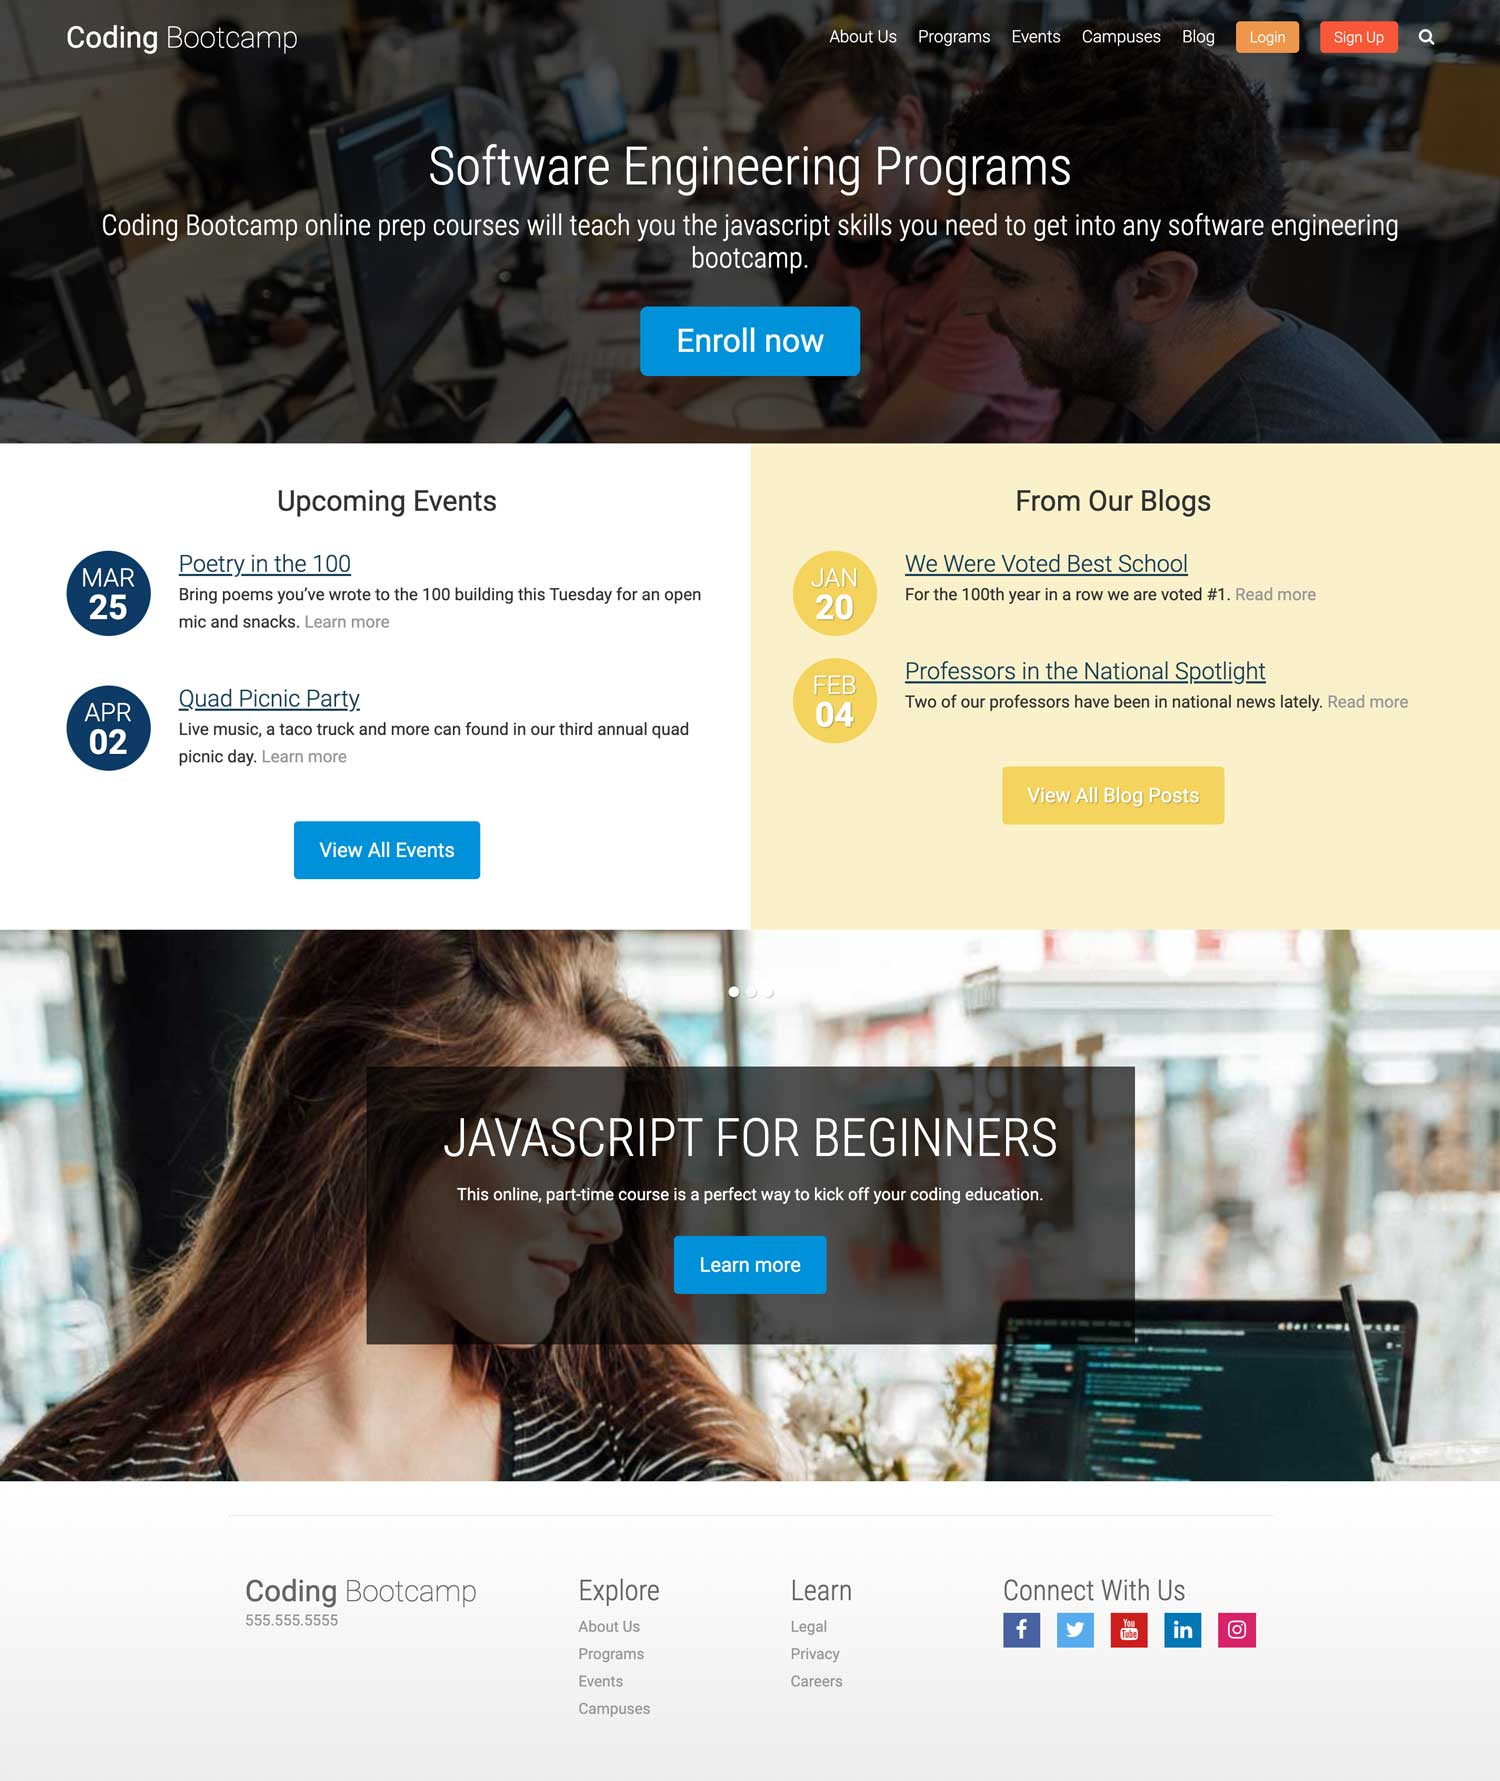
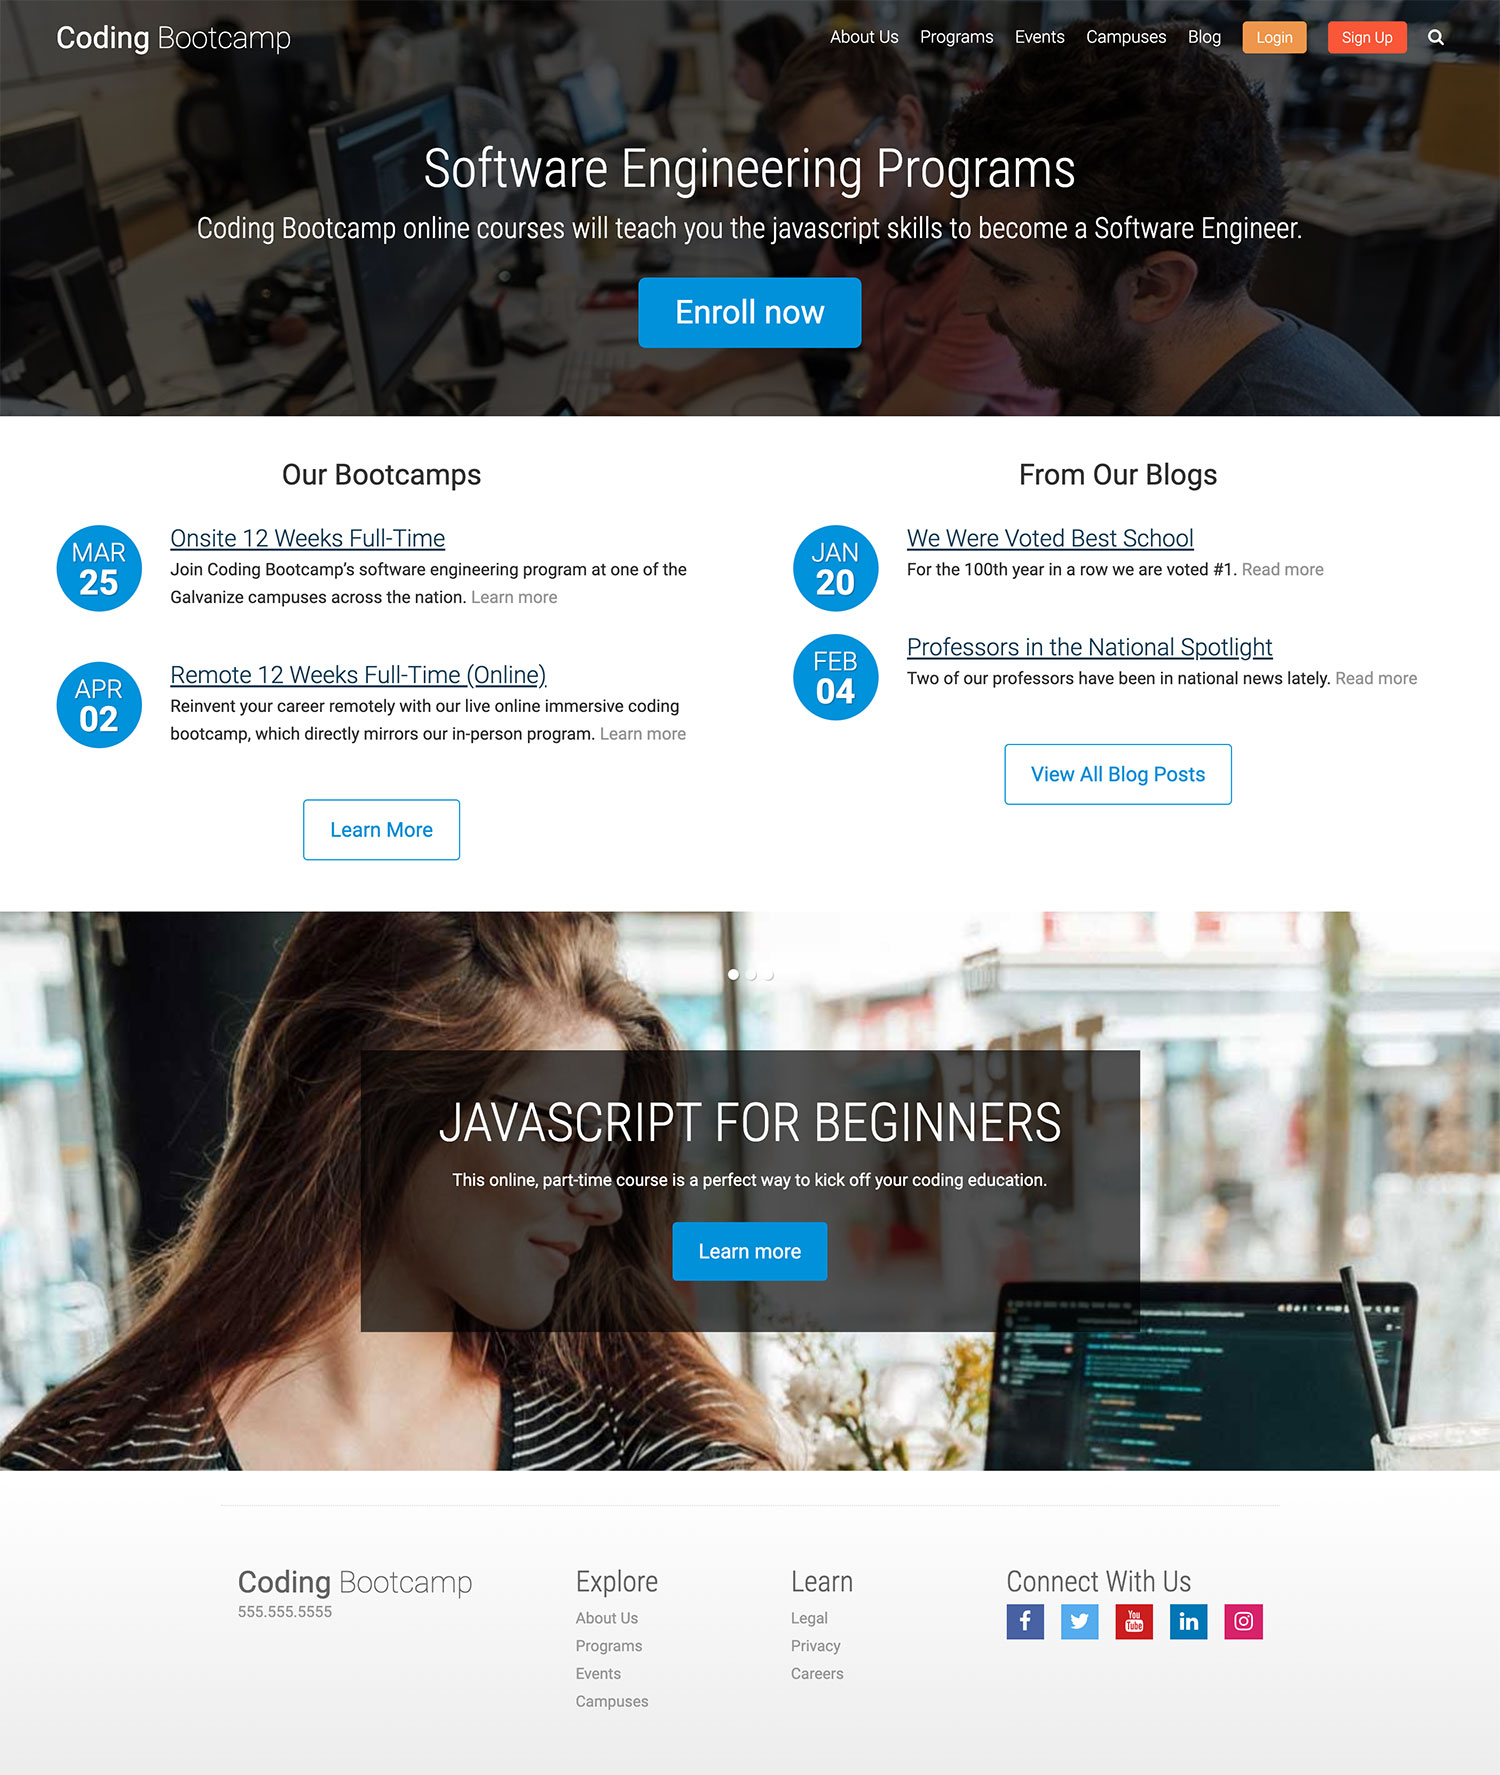
edit html content

diff --git a/index.php b/index.php
@@ -14,7 +14,7 @@
     <div class="full-width-split group">
       <div class="full-width-split__one">
         <div class="full-width-split__inner">
-          <h2 class="headline headline--small-plus t-center">Upcoming Events</h2>
+          <h2 class="headline headline--small-plus t-center">Our Bootcamps</h2>
 
           <div class="event-summary">
             <a class="event-summary__date t-center" href="#">
@@ -22,8 +22,8 @@
               <span class="event-summary__day">25</span>
             </a>
             <div class="event-summary__content">
-              <h5 class="event-summary__title headline headline--tiny"><a href="#">Poetry in the 100</a></h5>
-              <p>Bring poems you&rsquo;ve wrote to the 100 building this Tuesday for an open mic and snacks. <a href="#" class="nu gray">Learn more</a></p>
+              <h5 class="event-summary__title headline headline--tiny"><a href="#">Onsite 12 Weeks Full-Time</a></h5>
+              <p>Join Coding Bootcamp’s software engineering program at one of the Galvanize campuses across the nation. <a href="#" class="nu gray">Learn more</a></p>
             </div>
           </div>
           <div class="event-summary">
@@ -32,12 +32,12 @@
               <span class="event-summary__day">02</span>
             </a>
             <div class="event-summary__content">
-              <h5 class="event-summary__title headline headline--tiny"><a href="#">Quad Picnic Party</a></h5>
-              <p>Live music, a taco truck and more can found in our third annual quad picnic day. <a href="#" class="nu gray">Learn more</a></p>
+              <h5 class="event-summary__title headline headline--tiny"><a href="#">Remote 12 Weeks Full-Time (Online)</a></h5>
+              <p>Reinvent your career remotely with our live online immersive coding bootcamp, which directly mirrors our in-person program. <a href="#" class="nu gray">Learn more</a></p>
             </div>
           </div>
 
-          <p class="t-center no-margin"><a href="#" class="btn btn--blue-outline">View All Events</a></p>
+          <p class="t-center no-margin"><a href="#" class="btn btn--blue-outline">Learn More</a></p>
         </div>
       </div>
       <div class="full-width-split__two">
